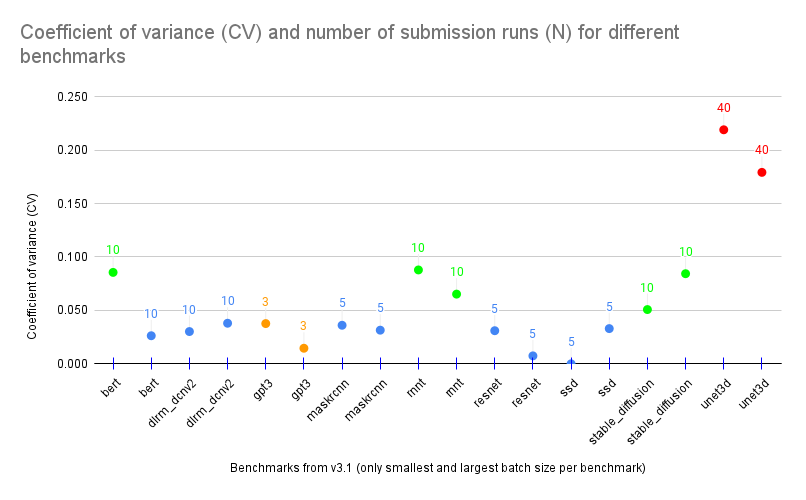
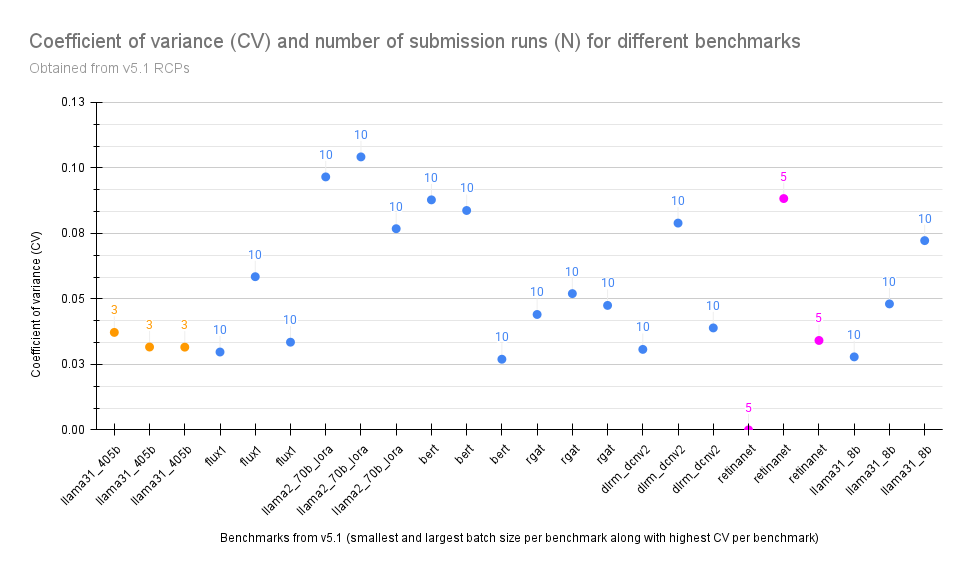
Update CV plot with v5.1 values

diff --git a/CONTRIBUTING.md b/CONTRIBUTING.md
@@ -190,31 +190,34 @@ MLCommons project work is tracked with issue trackers and pull requests. Modify 
 
  3. To measure variance, we can use Coefficient of Variation (CV) which is a statistical measure of the dispersion of data points in a data series around the mean. It is a useful statistic for comparing the degree of variation from one data series to another, even if the means are drastically different from one another. Coefficient of Variation (CV) = standard deviation / mean. If CV is a lower number, then there is less variation, so we can choose a small N. The data below from other benchmarks can be used as a baseline to help pick N.
 
-     a. Data obtained from - https://github.com/mlcommons/logging/tree/master/mlperf_logging/rcp_checker/training_3.1.0 
+     a. Data obtained from - https://github.com/mlcommons/logging/tree/master/mlperf_logging/rcp_checker/training_5.1.0 
 
- | Benchmark | GBS | Mean of epochs to converge | Std for epochs to converge | Coefficient of variance (CV) | N |
- | ------- | ------- | ------- | ------- | ------- | ------- |
- | bert | 256.00 | 2552704.00 | 218406.13 | 0.086 | 10 |
- | bert | 16384.00 | 5504307.20 | 144642.71 | 0.026 | 10 |
- | dlrm_dcnv2 | 32768.00 | 0.71 | 0.02 | 0.030 | 10 |
- | dlrm_dcnv2 | 135168.00 | 0.93 | 0.04 | 0.038 | 10 |
- | gpt3 | 1536.00 | 1199570944.00 | 45174036.58 | 0.038 | 3 |
- | gpt3 | 8192.00 | 1627389952.00 | 23726566.41 | 0.015 | 3 |
- | maskrcnn | 8.00 | 12.70 | 0.46 | 0.036 | 5 |
- | maskrcnn | 272.00 | 17.10 | 0.54 | 0.031 | 5 |
- | rnnt | 512.00 | 42.05 | 3.69 | 0.088 | 10 |
- | rnnt | 6144.00 | 96.10 | 6.27 | 0.065 | 10 |
- | resnet | 1632.00 | 35.00 | 1.08 | 0.031 | 5 |
- | resnet | 67840.00 | 85.86 | 0.64 | 0.007 | 5 |
- | ssd | 256.00 | 4.00 | 0.00| 0.000 | 5 |
- | ssd | 4096.00 | 15.13 | 0.50 | 0.033 | 5 |
- | flux.1 | 1024.00 | 8768716.8 | 592157.22 | 0.068 | 10 |
- | flux.1 | 2048.00 | 10734796.8 | 616104.40 | 0.057 | | 10 |
- | flux.1 | 4096.00 | 15623782.4 | 491531.50 | 0.031 | 10 |
-| stable_diffusion | 512.00 | 5071.43 | 257.54 | 0.051 | 10 |
- | stable_diffusion | 2048.00 | 1961.54 | 165.43 | 0.084 | 10 |
- | unet3d | 2.00 | 446764.14 | 97843.95 | 0.219 | 40 |
- | unet3d | 84.00 | 387860.87 | 69491.57 | 0.179 | 40 |
+| Benchmark | GBS | Mean of epochs to converge | Std for epochs to converge | Coefficient of variance (CV) | N |
+| ------- | ------- | ------- | ------- | ------- | ------- |
+| llama31_405b | 1152 | 313344 | 11657.42037 | 0.04 | 3 |
+| llama31_405b | 2304 | 368640 | 11657.42037 | 0.03 | 3 |
+| llama31_405b | 4608 | 488448 | 15421.31761 | 0.03 | 3 |
+| flux1 | 512 | 7169638.4 | 213051.6904 | 0.03 | 10 |
+| flux1 | 2048 | 10315366.4 | 603051.1624 | 0.06 | 10 |
+| flux1 | 4096 | 15348531.2 | 513660.0262 | 0.03 | 10 |
+| llama2_70b_lora | 8 | 3187.2 | 307.7048483 | 0.10 | 10 |
+| llama2_70b_lora | 16 | 4051.2 | 422.0323759 | 0.10 | 10 |
+| llama2_70b_lora | 128 | 11289.6 | 866.7465118 | 0.08 | 10 |
+| bert | 256 | 2552704 | 224079.9655 | 0.09 | 10 |
+| bert | 448 | 2410629.565 | 201828.8164 | 0.08 | 10 |
+| bert | 16384 | 5504307.2 | 148400.2887 | 0.03 | 10 |
+| rgat | 4096 | 0.79 | 0.0347926187 | 0.04 | 10 |
+| rgat | 16384 | 0.86 | 0.04472135955 | 0.05 | 10 |
+| rgat | 262144 | 2.465 | 0.1170919567 | 0.05 | 10 |
+| dlrm_dcnv2 | 32768 | 0.7066666667 | 0.02170862427 | 0.03 | 10 |
+| dlrm_dcnv2 | 65536 | 0.7933333333 | 0.06260623156 | 0.08 | 10 |
+| dlrm_dcnv2 | 160000 | 0.9575 | 0.03725799102 | 0.04 | 10 |
+| retinanet | 256 | 4 | 0 | 0.00 | 5 |
+| retinanet | 320 | 4.15 | 0.3663475485 | 0.09 | 5 |
+| retinanet | 4096 | 15.13333333 | 0.5163977795 | 0.03 | 5 |
+| llama31_8b | 16 | 161587.2 | 4501.678676 | 0.03 | 10 |
+| llama31_8b | 64 | 226713.6 | 10899.96237 | 0.05 | 10 |
+| llama31_8b | 128 | 345907.2 | 24984.89317 | 0.07 | 10 |
  
  ![plot](./images/coefficient_of_variance.png "Coefficient of variance (CV) and number of submission runs (N) for different benchmarks")
 
